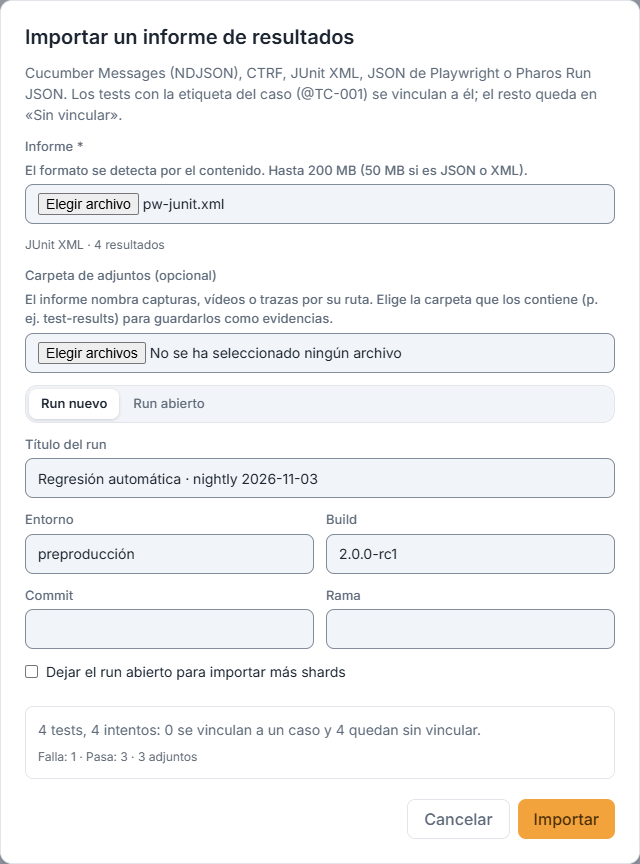
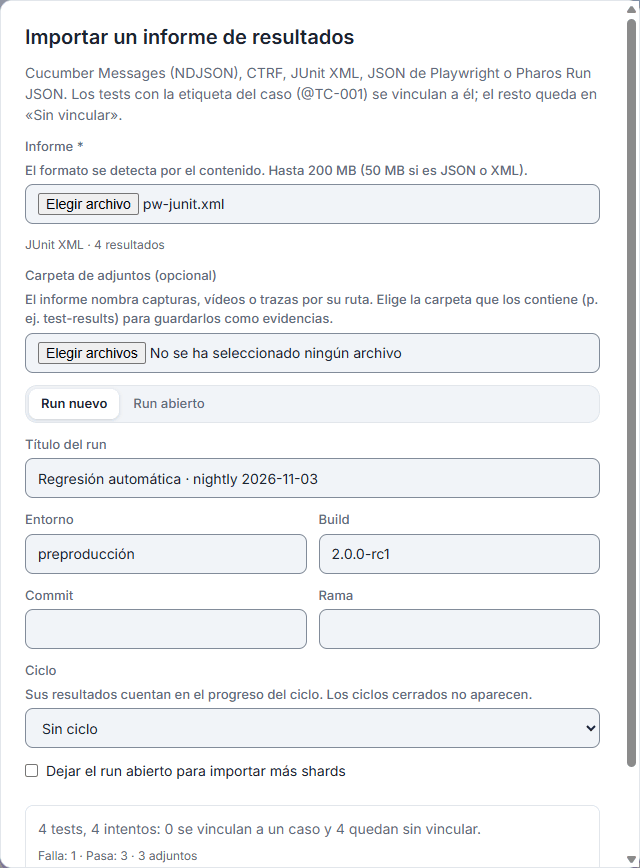
docs(manual): tours of the defect fields and the import cycle (FLD-03, CYC-02)
New tour step «Campos de los defectos» (Ajustes, selector Casos /
Defectos); the defect editor fills «Cliente afectado»; the second import
picks the cycle. Three inventory items. Manual regenerated with a full
`npm run manual` (185 passing, 1 skipped by design, secret scan clean);
only chapters 2, 8 and 9 kept, the pixel churn of the other chapters
reverted.

diff --git a/e2e/tours/manifest.ts b/e2e/tours/manifest.ts
@@ -148,6 +148,7 @@ export const INVENTORY: Item[] = [
   I("proyectos", "action", "action:custom-field-create", "Crear un campo personalizado"),
   I("proyectos", "dialog", "dialogs:src/modules/custom-fields/ui/CustomFieldDialog.tsx", "Diálogo de campo personalizado"),
   I("proyectos", "action", "action:custom-field-archive", "Archivar y restaurar un campo personalizado"),
+  I("proyectos", "action", "action:custom-field-defect", "Campos personalizados de defectos (selector Casos / Defectos)"),
   I("proyectos", "dialog", "dialogs:src/modules/custom-fields/ui/CopyFieldsDialog.tsx", "Copiar campos de otro proyecto"),
   I("proyectos", "action", "action:configuration-create", "Crear una configuración"),
   I("proyectos", "dialog", "dialogs:src/modules/cycles/ui/ConfigurationDialog.tsx", "Diálogo de configuración (etiquetas de importación)"),
@@ -263,6 +264,7 @@ export const INVENTORY: Item[] = [
   I("ejecuciones", "action", "action:tray-unlink", "Desvincular un test"),
   I("ejecuciones", "action", "action:tray-filter", "Filtrar la bandeja"),
   I("ejecuciones", "action", "action:import-attachments-folder", "Carpeta de adjuntos del informe"),
+  I("ejecuciones", "action", "action:import-into-cycle", "Importar un informe en un ciclo"),
 
   // ---- 9 · Defectos ----------------------------------------------------------------------
   I("defectos", "section", "section:defects", "Defectos (lista)"),
@@ -271,6 +273,7 @@ export const INVENTORY: Item[] = [
   I("defectos", "state", "state:defect-title-required", "Título obligatorio en un defecto"),
   I("defectos", "upload", "upload:src/modules/defects/ui/DefectEditor.tsx", "Adjuntar evidencias a un defecto"),
   I("defectos", "action", "action:defect-links", "Vincular un defecto a casos y requisitos"),
+  I("defectos", "action", "action:defect-custom-fields", "Rellenar campos personalizados en un defecto"),
   I("defectos", "dialog", "dialogs:src/modules/defects/ui/ResultPickerDialog.tsx", "Crear un defecto desde un resultado fallido"),
   I("defectos", "screen", "screen:defect-board", "Tablero de defectos"),
   I("defectos", "tab", "views:src/modules/defects/ui/DefectsPage.tsx", "Vista de defectos (Lista / Tablero)"),

diff --git a/e2e/tours/08-ejecuciones.tour.ts b/e2e/tours/08-ejecuciones.tour.ts
@@ -78,8 +78,8 @@ chapter("ejecuciones", () => {
 
   step("con-adjuntos", {
     title: "Un informe con adjuntos",
-    caption: "Si el informe enlaza capturas, vídeos o trazas, elige también su «Carpeta de adjuntos»: Pharos busca cada archivo por su nombre y lo guarda, cifrado, como evidencia del resultado. Aquí, un JUnit de dos tests con la captura de un fallo.",
-    covers: ["action:import-attachments-folder"],
+    caption: "Si el informe enlaza capturas, vídeos o trazas, elige también su «Carpeta de adjuntos»: Pharos busca cada archivo por su nombre y lo guarda, cifrado, como evidencia del resultado. Aquí, un JUnit de dos tests con la captura de un fallo. «Ciclo» hace que el run nuevo sea de un ciclo (de los que no están cerrados): sus resultados cuentan en el progreso del ciclo sin editar nada después.",
+    covers: ["action:import-attachments-folder", "action:import-into-cycle"],
     shot: { element: D },
     run: async () => {
       await clickButton(R.import.open);
@@ -89,6 +89,10 @@ chapter("ejecuciones", () => {
       // msedgedriver uploads a whole folder into a webkitdirectory input.
       await $(D).$('input[type="file"][webkitdirectory]').setValue(join(fixturesDir, "informe-adjuntos", "capturas"));
       await (await field(R.field.title, D)).setValue("Regresión automática · con capturas");
+      // The cycle of chapter 7 (CYC-02): the first option after «Sin ciclo».
+      const cycle = $(D).$('[data-testid="import-cycle"]');
+      await cycle.scrollIntoView();
+      await cycle.selectByIndex(1);
       await waitForText(tf("runs.import.attachments_one", { count: 1 }));
     },
   });

diff --git a/e2e/tours/02-proyectos.tour.ts b/e2e/tours/02-proyectos.tour.ts
@@ -206,6 +206,24 @@ chapter("proyectos", () => {
     },
   });
 
+  step("campo-defecto", {
+    title: "Campos de los defectos",
+    caption: "El selector «Casos / Defectos» de la tarjeta elige de qué entidad son los campos. Con «Defectos», «Nuevo campo» crea un campo que aparece en el editor de cada defecto; aquí, «Cliente afectado». Los campos de casos y de defectos son independientes, y «Copiar de otro proyecto» copia los de la entidad elegida.",
+    covers: ["action:custom-field-defect"],
+    run: async () => {
+      const card = $('[data-testid="custom-fields-card"]');
+      await card.scrollIntoView();
+      await card.$('[data-testid="custom-fields-entity"] [data-value="defect"]').click();
+      await waitForText(es.customFields.emptyDefect.slice(0, 30));
+      await card.$(`button=${es.customFields.new}`).click();
+      await (await field(es.customFields.dialog.label, '[role="dialog"]')).setValue("Cliente afectado");
+      await dialog().$(`button=${es.customFields.dialog.create}`).click();
+      await waitForText(tf("customFields.savedToast", { label: "Cliente afectado" }));
+      await expect(card.$(hasText("Cliente afectado"))).toBeDisplayed();
+      await card.scrollIntoView();
+    },
+  });
+
   step("configuracion-nueva", {
     title: "Nueva configuración",
     caption: "En «Configuraciones», «Nueva configuración» define dónde se ejecuta un ciclo: navegador, sistema, dispositivo e idioma. Las etiquetas de importación (Intro o coma para añadir cada una) son los nombres con los que un informe importado reconoce la configuración.",

diff --git a/e2e/tours/09-defectos.tour.ts b/e2e/tours/09-defectos.tour.ts
@@ -63,8 +63,8 @@ chapter("defectos", () => {
 
   step("nuevo", {
     title: "Rellenar el defecto",
-    caption: "Detalles (severidad, prioridad, estado, etiquetas), reproducción (pasos, resultado esperado y obtenido), dónde se encontró (build y entorno), vínculos con casos y requisitos y seguimiento externo.",
-    covers: ["action:defect-create", "action:defect-links"],
+    caption: "Detalles (severidad, prioridad, estado, etiquetas), reproducción (pasos, resultado esperado y obtenido), dónde se encontró (build y entorno), vínculos con casos y requisitos, seguimiento externo y los campos personalizados de defectos que definiste en Ajustes (aquí, «Cliente afectado»).",
+    covers: ["action:defect-create", "action:defect-links", "action:defect-custom-fields"],
     run: async () => {
       await (await field(F.field.title)).setValue("El saldo no se actualiza tras una transferencia");
       await selectOption(F.field.severity, F.severity.major);
@@ -75,6 +75,10 @@ chapter("defectos", () => {
       await (await field(F.field.foundInBuild)).setValue("2.0.0-rc1");
       const caseLink = $(`label*=Transferencia a un tercero`);
       if (await caseLink.isExisting()) await caseLink.click();
+      // The defect field created in chapter 2 (FLD-03).
+      const customer = await field("Cliente afectado");
+      await customer.scrollIntoView();
+      await customer.setValue("Banca Norte");
     },
   });
 

diff --git a/docs/manual/02-proyectos.md b/docs/manual/02-proyectos.md
@@ -83,53 +83,59 @@ Un campo no se borra: se archiva desde su menú («Archivar») y sus valores se 
 
 Si cierras el diálogo de un campo con cambios sin guardar, Pharos pregunta antes de descartarlos.
 
-### 2.13. Nueva configuración
+### 2.13. Campos de los defectos
+
+El selector «Casos / Defectos» de la tarjeta elige de qué entidad son los campos. Con «Defectos», «Nuevo campo» crea un campo que aparece en el editor de cada defecto; aquí, «Cliente afectado». Los campos de casos y de defectos son independientes, y «Copiar de otro proyecto» copia los de la entidad elegida.
+
+![Campos de los defectos](img/proyectos/13-campo-defecto.png)
+
+### 2.14. Nueva configuración
 
 En «Configuraciones», «Nueva configuración» define dónde se ejecuta un ciclo: navegador, sistema, dispositivo e idioma. Las etiquetas de importación (Intro o coma para añadir cada una) son los nombres con los que un informe importado reconoce la configuración.
 
-![Nueva configuración](img/proyectos/13-configuracion-nueva.png)
+![Nueva configuración](img/proyectos/14-configuracion-nueva.png)
 
-### 2.14. Configuraciones del proyecto
+### 2.15. Configuraciones del proyecto
 
 «Guardar» la añade a la lista. Aquí hay dos (Chrome y Edge); una tercera se archivó desde su menú y solo se ve con «Mostrar archivadas».
 
-![Configuraciones del proyecto](img/proyectos/14-configuracion-creada.png)
+![Configuraciones del proyecto](img/proyectos/15-configuracion-creada.png)
 
-### 2.15. Crear con Intro y copiar campos
+### 2.16. Crear con Intro y copiar campos
 
 Un segundo proyecto («Portal Clientes», creado pulsando Intro tras el nombre) puede copiar los campos personalizados de otro con «Copiar de otro proyecto».
 
-![Crear con Intro y copiar campos](img/proyectos/15-segundo-proyecto.png)
+![Crear con Intro y copiar campos](img/proyectos/16-segundo-proyecto.png)
 
-### 2.16. Todos los proyectos
+### 2.17. Todos los proyectos
 
 Con proyectos, la lista muestra los recientes arriba y la tabla de todos: plan, casos, ejecución, cobertura y último acceso. Busca por nombre o prefijo y ordena con «Ordenar por».
 
-![Todos los proyectos](img/proyectos/16-lista-proyectos.png)
+![Todos los proyectos](img/proyectos/17-lista-proyectos.png)
 
-### 2.17. Acciones de un proyecto
+### 2.18. Acciones de un proyecto
 
 El menú «⋯» de cada fila abre el proyecto, sus ajustes o lo exporta en un ZIP (plan, casos y documentos).
 
-![Acciones de un proyecto](img/proyectos/17-menu-fila.png)
+![Acciones de un proyecto](img/proyectos/18-menu-fila.png)
 
-### 2.18. Exportar un proyecto
+### 2.19. Exportar un proyecto
 
 «Exportar proyecto (ZIP)» genera los documentos con una barra de progreso y guarda el ZIP en tu carpeta de descarga; «Exportar todo» hace lo mismo con todos los proyectos.
 
-### 2.19. Cambiar de proyecto
+### 2.20. Cambiar de proyecto
 
 Dentro de un proyecto, el selector de la parte superior del menú lateral salta a otro proyecto sin volver a la lista.
 
-![Cambiar de proyecto](img/proyectos/19-cambiar-proyecto.png)
+![Cambiar de proyecto](img/proyectos/20-cambiar-proyecto.png)
 
-### 2.20. Eliminar un proyecto
+### 2.21. Eliminar un proyecto
 
 «Eliminar proyecto», al pie de los ajustes, cuenta lo que se perderá y pide escribir el prefijo (o el nombre) para confirmar. «Sí, eliminar todo» lo borra y vuelve a la lista.
 
-![Eliminar un proyecto](img/proyectos/20-eliminar-proyecto.png)
+![Eliminar un proyecto](img/proyectos/21-eliminar-proyecto.png)
 
-### 2.21. Proyecto eliminado
+### 2.22. Proyecto eliminado
 
 Tras confirmar, un aviso lo confirma y la lista ya no lo muestra.
 

diff --git a/docs/manual/08-ejecuciones.md b/docs/manual/08-ejecuciones.md
@@ -39,7 +39,7 @@ Al terminar, el resumen dice qué run se creó y cuántos resultados quedan sin 
 
 ### 8.5. Un informe con adjuntos
 
-Si el informe enlaza capturas, vídeos o trazas, elige también su «Carpeta de adjuntos»: Pharos busca cada archivo por su nombre y lo guarda, cifrado, como evidencia del resultado. Aquí, un JUnit de dos tests con la captura de un fallo.
+Si el informe enlaza capturas, vídeos o trazas, elige también su «Carpeta de adjuntos»: Pharos busca cada archivo por su nombre y lo guarda, cifrado, como evidencia del resultado. Aquí, un JUnit de dos tests con la captura de un fallo. «Ciclo» hace que el run nuevo sea de un ciclo (de los que no están cerrados): sus resultados cuentan en el progreso del ciclo sin editar nada después.
 
 ![Un informe con adjuntos](img/ejecuciones/05-con-adjuntos.png)
 

diff --git a/docs/manual/09-defectos.md b/docs/manual/09-defectos.md
@@ -26,7 +26,7 @@ Pulsa «Defectos» en el menú lateral. Arriba, «Desde un resultado» y «Nuevo
 
 ### 9.3. Rellenar el defecto
 
-Detalles (severidad, prioridad, estado, etiquetas), reproducción (pasos, resultado esperado y obtenido), dónde se encontró (build y entorno), vínculos con casos y requisitos y seguimiento externo.
+Detalles (severidad, prioridad, estado, etiquetas), reproducción (pasos, resultado esperado y obtenido), dónde se encontró (build y entorno), vínculos con casos y requisitos, seguimiento externo y los campos personalizados de defectos que definiste en Ajustes (aquí, «Cliente afectado»).
 
 ![Rellenar el defecto](img/defectos/03-nuevo.png)
 

diff --git a/docs/manual/README.md b/docs/manual/README.md
@@ -13,7 +13,7 @@ Este manual explica, pantalla a pantalla, cómo se usa Pharos. Cada paso es tamb
 ## Contenido
 
 1. [Acceso y cuenta](01-acceso.md) (11 pasos)
-2. [Inicio, proyectos y ajustes](02-proyectos.md) (21 pasos)
+2. [Inicio, proyectos y ajustes](02-proyectos.md) (22 pasos)
 3. [Plan de pruebas](03-plan.md) (24 pasos)
 4. [Casos de prueba](04-casos.md) (22 pasos)
 5. [Trazabilidad y requisitos](05-trazabilidad.md) (13 pasos)
